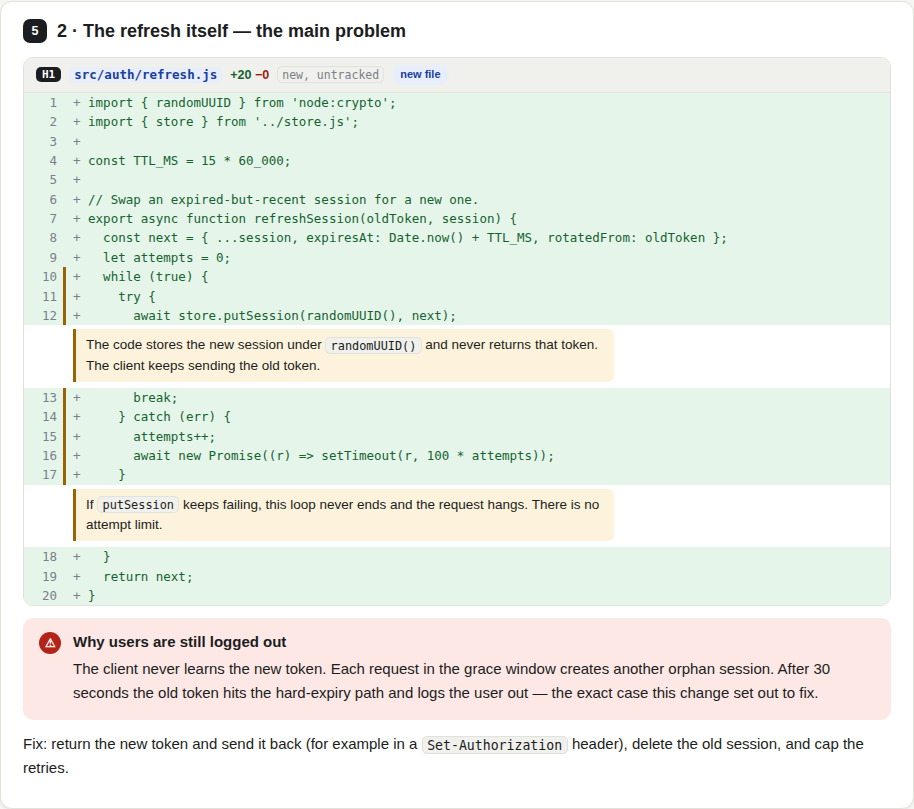
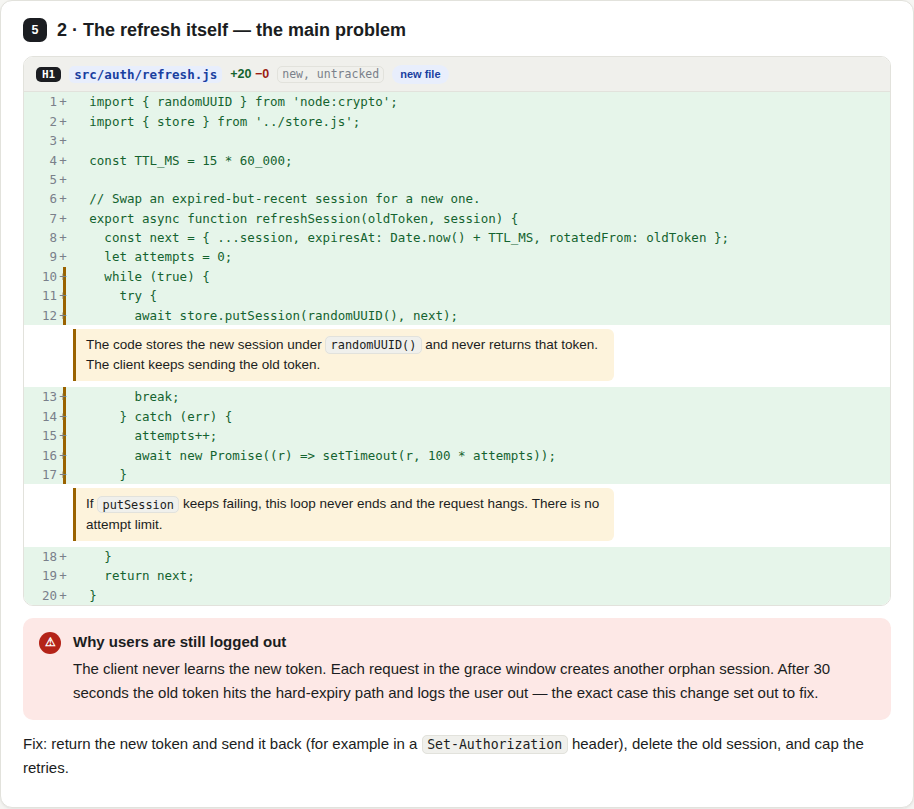
Benchmark lucid against answer-me-with-html and direct HTML; fix what it found
Blind benchmark, same model, new tasks (DNS explainer; review of a branch
with four planted bugs), judged from static screenshots under shuffled
labels. lucid ranked first on both tasks: narrowly for the explainer, and
clearly for the review on verifiability and completeness. All conditions
found all four bugs. Results and caveats in BENCHMARK.md.

Fixes for problems the judges found:
- Status badges need a lowercase keyword ("No such name" stays text).
- Key-value and glossary grids no longer show empty grey cells.
- Code and diff lines wrap with a hanging indent instead of being cut off.
- New "critical" risk level above "high".
- Review header prints the base commit once.
- Sequences, LR flows, code and diffs take the full row automatically.
- SKILL.md: glossary last; lean reviews; caller-visible behaviour changes
  belong in the risks.

Claude-Session: https://claude.ai/code/session_015hwiLpJLzKC155qaZvB42B

diff --git a/docs/examples/tcp.html b/docs/examples/tcp.html
@@ -200,8 +200,8 @@ rect.s3, circle.s3, .sw.s3 { fill: var(--s3); background: var(--s3); } path.ln.s
 .timeline time { text-align: right; font: 600 13px var(--mono); color: var(--ink-3); padding-top: 2px; }
 .timeline li.hot time { color: var(--accent); }
 .timeline p { margin: 2px 0 0; color: var(--ink-2); font-size: 14px; }
-.kv, .glossary { display: grid; grid-template-columns: repeat(auto-fill, minmax(200px, 1fr)); gap: 1px; background: var(--line); border: 1px solid var(--line); border-radius: 10px; overflow: hidden; margin: .6em 0; }
-.kv div, .glossary div { background: var(--surface); padding: 8px 12px; }
+.kv, .glossary { display: grid; grid-template-columns: repeat(auto-fill, minmax(200px, 1fr)); border: 1px solid var(--line); border-radius: 10px; overflow: hidden; margin: .6em 0; background: var(--surface); }
+.kv div, .glossary div { padding: 8px 12px; box-shadow: 0 0 0 .5px var(--line); }
 .kv dt, .glossary dt { font-size: 11.5px; color: var(--ink-3); text-transform: uppercase; letter-spacing: .05em; font-weight: 600; }
 .glossary dt { text-transform: none; letter-spacing: 0; font-size: 14px; color: var(--ink); }
 .kv dd, .glossary dd { margin: 2px 0 0; font-size: 14px; }
@@ -215,8 +215,9 @@ figure.code figcaption .ref { font: 600 12.5px var(--mono); }
 figure.code figcaption code { font-size: 11.5px; }
 .scroll { overflow-x: auto; }
 figure.code table { font: 12.5px/1.55 var(--mono); width: 100%; }
-figure.code td { padding: 0 10px; white-space: pre; vertical-align: top; }
-figure.code td.ln { width: 1%; text-align: right; color: var(--ink-3); user-select: none; padding: 0 6px; }
+figure.code td { padding: 0 10px; white-space: pre-wrap; overflow-wrap: anywhere; vertical-align: top; }
+figure.code td.src { padding-left: 2.1em; text-indent: -1.2em; } /* wrapped lines hang under the code, not the +/- sign */
+figure.code td.ln { width: 1%; text-align: right; color: var(--ink-3); user-select: none; padding: 0 6px; white-space: nowrap; overflow-wrap: normal; text-indent: 0; }
 figure.code tr.add td { background: var(--add); } figure.code tr.add td.src { color: var(--add-ink); }
 figure.code tr.del td { background: var(--del); } figure.code tr.del td.src { color: var(--del-ink); }
 figure.code tr.hl td.src { box-shadow: inset 3px 0 var(--warn); }
@@ -237,7 +238,8 @@ a.ref.hunk { background: var(--ink); color: var(--surface); font-weight: 700; }
 .risks { list-style: none; padding: 0; margin: .4em 0; }
 .risks li { display: flex; gap: 12px; align-items: baseline; padding: 9px 0; border-bottom: 1px solid var(--line); }
 .risks li:last-child { border-bottom: 0; }
-.lvl { flex: none; width: 46px; text-align: center; font-size: 10.5px; font-weight: 800; text-transform: uppercase; letter-spacing: .06em; border-radius: 5px; padding: 2px 0; }
+.lvl { flex: none; width: 58px; text-align: center; font-size: 10.5px; font-weight: 800; text-transform: uppercase; letter-spacing: .06em; border-radius: 5px; padding: 2px 0; }
+.r-critical .lvl { background: var(--risk); color: var(--surface); }
 .r-high .lvl { background: var(--risk-soft); color: var(--risk); }
 .r-med .lvl { background: var(--warn-soft); color: var(--warn); }
 .r-low .lvl { background: var(--sunk); color: var(--ink-3); }
@@ -346,7 +348,7 @@ footer { text-align: center; color: var(--ink-3); font-size: 12px; padding: 0 0 
 </div>
 <div class="tourbar" hidden><button type="button" data-act="tprev" aria-label="Previous">‹</button><button type="button" data-act="tpause" aria-label="Pause">❚❚</button><button type="button" data-act="tnext" aria-label="Next">›</button><p class="tcap" aria-live="polite"></p><button type="button" data-act="tstop" aria-label="Close tour">✕</button></div>
 <div class="snip" role="tooltip" hidden></div>
-<footer>Made with lucid 0.1.0 · 2026-10-03 11:04</footer>
+<footer>Made with lucid 0.1.0 · 2026-10-03 18:57</footer>
 <script type="application/json" id="lucid-glossary">{"ISN":"Initial sequence number. Each side picks a random one per connection.","SYN":"Synchronize. The flag that asks to start a connection.","MSL":"Maximum segment lifetime. How long a stray packet can survive, often 2 minutes."}</script>
 <script type="text/plain" id="lucid-source">---
 title: How TCP opens and closes a connection

diff --git a/skills/lucid/scripts/assets/style.css b/skills/lucid/scripts/assets/style.css
@@ -192,8 +192,8 @@ rect.s3, circle.s3, .sw.s3 { fill: var(--s3); background: var(--s3); } path.ln.s
 .timeline time { text-align: right; font: 600 13px var(--mono); color: var(--ink-3); padding-top: 2px; }
 .timeline li.hot time { color: var(--accent); }
 .timeline p { margin: 2px 0 0; color: var(--ink-2); font-size: 14px; }
-.kv, .glossary { display: grid; grid-template-columns: repeat(auto-fill, minmax(200px, 1fr)); gap: 1px; background: var(--line); border: 1px solid var(--line); border-radius: 10px; overflow: hidden; margin: .6em 0; }
-.kv div, .glossary div { background: var(--surface); padding: 8px 12px; }
+.kv, .glossary { display: grid; grid-template-columns: repeat(auto-fill, minmax(200px, 1fr)); border: 1px solid var(--line); border-radius: 10px; overflow: hidden; margin: .6em 0; background: var(--surface); }
+.kv div, .glossary div { padding: 8px 12px; box-shadow: 0 0 0 .5px var(--line); }
 .kv dt, .glossary dt { font-size: 11.5px; color: var(--ink-3); text-transform: uppercase; letter-spacing: .05em; font-weight: 600; }
 .glossary dt { text-transform: none; letter-spacing: 0; font-size: 14px; color: var(--ink); }
 .kv dd, .glossary dd { margin: 2px 0 0; font-size: 14px; }
@@ -207,8 +207,9 @@ figure.code figcaption .ref { font: 600 12.5px var(--mono); }
 figure.code figcaption code { font-size: 11.5px; }
 .scroll { overflow-x: auto; }
 figure.code table { font: 12.5px/1.55 var(--mono); width: 100%; }
-figure.code td { padding: 0 10px; white-space: pre; vertical-align: top; }
-figure.code td.ln { width: 1%; text-align: right; color: var(--ink-3); user-select: none; padding: 0 6px; }
+figure.code td { padding: 0 10px; white-space: pre-wrap; overflow-wrap: anywhere; vertical-align: top; }
+figure.code td.src { padding-left: 2.1em; text-indent: -1.2em; } /* wrapped lines hang under the code, not the +/- sign */
+figure.code td.ln { width: 1%; text-align: right; color: var(--ink-3); user-select: none; padding: 0 6px; white-space: nowrap; overflow-wrap: normal; text-indent: 0; }
 figure.code tr.add td { background: var(--add); } figure.code tr.add td.src { color: var(--add-ink); }
 figure.code tr.del td { background: var(--del); } figure.code tr.del td.src { color: var(--del-ink); }
 figure.code tr.hl td.src { box-shadow: inset 3px 0 var(--warn); }
@@ -229,7 +230,8 @@ a.ref.hunk { background: var(--ink); color: var(--surface); font-weight: 700; }
 .risks { list-style: none; padding: 0; margin: .4em 0; }
 .risks li { display: flex; gap: 12px; align-items: baseline; padding: 9px 0; border-bottom: 1px solid var(--line); }
 .risks li:last-child { border-bottom: 0; }
-.lvl { flex: none; width: 46px; text-align: center; font-size: 10.5px; font-weight: 800; text-transform: uppercase; letter-spacing: .06em; border-radius: 5px; padding: 2px 0; }
+.lvl { flex: none; width: 58px; text-align: center; font-size: 10.5px; font-weight: 800; text-transform: uppercase; letter-spacing: .06em; border-radius: 5px; padding: 2px 0; }
+.r-critical .lvl { background: var(--risk); color: var(--surface); }
 .r-high .lvl { background: var(--risk-soft); color: var(--risk); }
 .r-med .lvl { background: var(--warn-soft); color: var(--warn); }
 .r-low .lvl { background: var(--sunk); color: var(--ink-3); }

diff --git a/BENCHMARK.md b/BENCHMARK.md
@@ -1,0 +1,84 @@
+# Benchmark: lucid vs answer-me-with-html vs asking for HTML directly
+
+Run on 2026-10-03. One run per cell (n = 1), so treat these as a first signal, not a verdict.
+
+## Setup
+
+The same model ran every condition as a fresh agent with no prior context.
+
+| Condition | What the agent had |
+|---|---|
+| **A — direct HTML** | "Answer me with an HTML page", plus a screenshot tool so it could check its own page |
+| **B — answer-me-with-html** | That skill's SKILL.md and CLI (v0.2) |
+| **C — lucid** | This skill's SKILL.md and CLI (v0.1) |
+
+Two tasks, both new to every agent:
+
+1. **Explain:** "How does DNS resolution work — what happens between typing a URL and getting an IP address?"
+2. **Review:** "An AI agent wrote this branch (including uncommitted work). Help me understand it and tell me if it is
+   safe to merge." The branch (3 files, +28 −3) hides four bugs, fixed in an answer key before any run:
+   off-by-one pagination, a cross-user data leak through the cache key, cache invalidation that never matches, and SQL
+   injection through `sort`.
+
+Two **blind judges** (fresh agents) saw only screen-sized screenshots of each page under shuffled labels, with no
+interaction. The explain judge answered six fixed DNS questions from each page alone. The review judge played the
+engineer who must decide whether to merge without reading the code.
+
+## Results
+
+### Explain (DNS)
+
+| | Direct HTML | answer-me-with-html | **lucid** |
+|---|---|---|---|
+| Comprehension questions answered from the page | 6/6 | 6/6 | 6/6 |
+| Clarity / Visuals / Readability / Trust (1–5) | 5 / 3 / 4 / 5 | 4 / 5 / 4 / 4 | 4 / 5 / 4 / 4 |
+| Judge's ranking | 3rd | 2nd | **1st** (close to 2nd) |
+| Wall time | 153 s | **46 s** | 71 s |
+
+### Review (planted bugs)
+
+| | Direct HTML | answer-me-with-html | **lucid** |
+|---|---|---|---|
+| Planted bugs on the page | 4/4 | 4/4 | 4/4 |
+| Time to verdict (1–5) | 5 | 5 | 5 |
+| Clarity of risks (1–5) | **5** | 4 | 3 |
+| Ability to verify claims against code (1–5) | 3 | 2 | **5** |
+| Completeness: could the judge tell nothing was skipped? (1–5) | 3 | 1 | **5** |
+| Judge's confidence in its merge decision (1–5) | 4–5 | 3 | **5** |
+| Judge's ranking | 2nd | 3rd | **1st** |
+| Wall time | 112 s | **63 s** | 69 s |
+
+## What this says
+
+- **Finding bugs is the model's job, not the skill's.** All three conditions found all four planted bugs. No skill
+  makes the model smarter, and claiming otherwise would be dishonest.
+- **lucid wins on trust in a review.** It was the only page where the judge could check every claim against the actual
+  changed lines and prove nothing was skipped ("3/3 changes explained", with the hunk totals adding up to the diff
+  stat). For AI-written code, which is Arpit's problem, that is the point: a confident page proves nothing unless you
+  can see the code under each claim.
+- **lucid wins on explaining, narrowly.** It ranked first for the DNS page, close to answer-me-with-html. Its edge was
+  the diagrams and their completeness: cache flow, message sequence, delegation tree, a TTL table and a quiz.
+- **It is about 2× faster than writing HTML by hand.** answer-me-with-html is faster still (its pages are smaller);
+  lucid spends the difference on the visual check and on reading code.
+- **The judges saw static screenshots.** Step-through diagrams, hover previews, the tour and the video were never
+  exercised, so lucid's interactive features are not in these scores.
+
+## Problems the benchmark found in lucid, all fixed after the run
+
+| Problem | Seen by | Fix |
+|---|---|---|
+| A table cell "No such name" rendered as "✗ such name" | explain judge | only lowercase `ok` / `no` / `warn` become badges |
+| An empty grey cell in a key-value grid | explain judge | the grid draws borders per cell |
+| Long code lines cut off at the right edge | review judge | code wraps with a hanging indent; nothing hides off-screen |
+| No severity above "high": a data leak ranked the same as an off-by-one | review judge | new `critical` level |
+| Base commit printed twice in the header | review judge | printed once |
+| Small sequence-diagram labels in a half-width card | explain judge | sequences, LR flows, code and diffs take the full row |
+| A glossary placed first delayed the overview | explain judge | SKILL.md now puts the glossary last |
+
+## Not measured yet
+
+- Several runs per cell, so differences can be told apart from noise.
+- Real people instead of model judges.
+- The interactive features: whether step-through and hover previews speed up understanding.
+- Output tokens and cost per answer. The agent harness reported only total tokens, which were within 15% of each other
+  across all six runs (60k–68k, mostly shared context).

diff --git a/skills/lucid/SKILL.md b/skills/lucid/SKILL.md
@@ -46,8 +46,8 @@ Rules that make pages good:
 - **Write in plain English (ASD-STE100 style):** one idea per sentence, ≤25 words (≤20 for steps), active voice, steps as commands, common words (use, not utilize). lint warns.
 - **Ground every claim about code:** `[[src/auth.js:42]]` or `[[src/auth.js:40-52]]` inline (hover shows the real lines); ```` ```code src/auth.js:40-60 ```` to show them. lucid fails on a missing file or line — that is the point.
 - **No invented numbers.** Charts take real values; say "illustrative" otherwise.
-- Layout: explain pages are a 2-column grid of sections (review pages: 1 column). A section alone on its row stretches to fill it, and tables with 4+ columns go full width automatically. Give `{span=full}` to wide diagrams, LR flows and tables with long cells. `say="…"` sets what the tour narrates for that section.
-- Put a `glossary` in the intro (before the first `##`) or in its own last section.
+- Layout: explain pages are a 2-column grid of sections (review pages: 1 column). A section alone on its row stretches to fill it; sequences, LR flows, code, and tables with 4+ columns go full width automatically. Give `{span=full}` to wide diagrams, LR flows and tables with long cells. `say="…"` sets what the tour narrates for that section.
+- Put a `glossary` in its own section near the end: hover definitions work everywhere, and a glossary first delays the overview.
 
 ## 3. Components (pick by the shape of the information)
 
@@ -76,9 +76,9 @@ Rules that make pages good:
    - **Intent** — what the change is for and the approach, before any code.
    - ```` ```changemap ```` — the shape: `routes.js -> session.js: calls`. Keep arrow labels to 1–2 words (empty body = file list with sizes).
    - **Walkthrough** — one section per idea, **in the order data flows, not file order**. Each shows ```` ```diff H3 ```` with notes on the lines that matter: `+42: …` (added or unchanged line, new-file number), `-17: …` (removed line, old-file number) — the numbers `lucid diff` prints. Explain *why* and *what could go wrong*, not what the line literally says.
-   - ```` ```risks ```` — `high | src/x.js:42 | what breaks`, ranked.
+   - ```` ```risks ```` — `critical | src/x.js:42 | what breaks`; levels critical (security, data loss, data leak) / high / med / low. Include behaviour changes for callers (API shape, defaults).
    - ```` ```checklist ```` — what a human must still verify (tests, rollout, data).
-   - Optional ```` ```quiz ```` — one question that proves the reviewer understood the risky part.
+   - Optional ```` ```quiz ```` — only when the risky part is subtle. Keep reviews lean: no glossary, no padding.
 3. **Account for every hunk.** Show it in a `diff` block or cite it inline (`[[H4]] only renames a variable`). The page header shows "N/M changes explained"; render warns about each unexplained hunk, and the "All changes" appendix flags it. Aim for M/M.
 
 ## 5. Render, check, look

diff --git a/README.md b/README.md
@@ -97,6 +97,23 @@ Their friction reports drove fixes in this version: cut-off tables are now detec
 mean, diff notes and step captions are linted, edge labels no longer sit under nodes, and `check --section` gives a
 sharp close-up.
 
+## How does it compare?
+
+A blind benchmark against [answer-me-with-html](https://github.com/QingYunA/answer-me-with-html) and plain "answer in
+HTML", with the same model and new tasks ([details](BENCHMARK.md), n = 1 per cell):
+
+| | Direct HTML | answer-me-with-html | lucid |
+|---|---|---|---|
+| Explain (DNS): judge's ranking | 3rd | 2nd | **1st** (narrowly) |
+| Review: planted bugs on the page | 4/4 | 4/4 | 4/4 |
+| Review: can the judge verify each claim against the code? (1–5) | 3 | 2 | **5** |
+| Review: can the judge tell nothing was skipped? (1–5) | 3 | 1 | **5** |
+| Review: judge's ranking | 2nd | 3rd | **1st** |
+| Wall time, explain / review | 153 s / 112 s | **46 s / 63 s** | 71 s / 69 s |
+
+Bug finding comes from the model, not the skill: every condition found all four bugs. lucid's advantage is that a
+reviewer can *check* the findings and *prove* the review covered everything.
+
 ## Install
 
 Node.js 20+. Nothing to `npm install`. Video export and `--check` use Playwright and ffmpeg if they are present.
